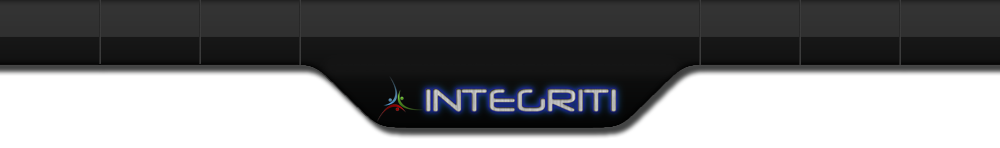
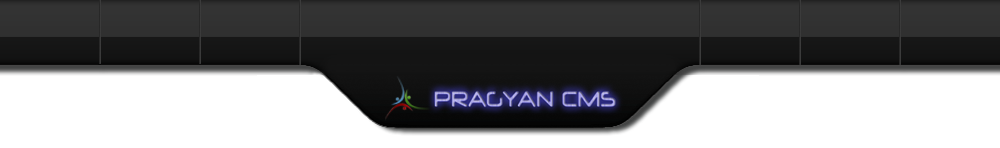
Finishing touches on trinity template, will be followed by one more commit

Changed region(s): [[0.341, 0.5405, 0.62, 0.8378], [0.372, 0.8378, 0.651, 0.9459], [0.31, 0.4865, 0.341, 0.6216]]

diff --git a/codebase/cms/templates/integriti/styles/other.css b/codebase/cms/templates/integriti/styles/other.css
@@ -1,4 +1,23 @@
-
+/** 
+ * Extras 
+ */
+div.download_button {
+	height : 69px;
+	width : 252px;
+	background : transparent url('../images/downloads_button3.png') no-repeat;
+	font-size : 21px;
+	color : #1d7ccc;
+	font-weight  : bold;
+	text-decoration : none;
+	padding-left : 0px;
+	line-height : 56px;
+	cursor : pointer; 
+}
+div.download_button:hover {
+	height : 69px;
+	width : 252px;
+	background : transparent url('../images/downloads_button_sel.png') no-repeat;
+}
 /**
  *Book Module
  */
@@ -11,7 +30,6 @@
 .tabContent {
 	display: none;
 	padding: 13px;
-	clear: both;
 }
 .tabElement {
 	border: 1px solid black;

diff --git a/codebase/cms/templates/integriti/styles/header.css b/codebase/cms/templates/integriti/styles/header.css
@@ -24,6 +24,9 @@ div#header_text {
 	font-weight: bold;
 }
 
+div.header ul {
+	float: right;
+}
 
 div.header ul > li{
 	width: 100px;
@@ -33,7 +36,7 @@ div.header ul > li{
 	list-style: none;
 }
 div.header ul > li:hover {
-	background: url(../images/glow.jpg) no-repeat top center;
+	background: url(../images/glow.jpg) repeat-x top center;
 }
 
 div.header li:hover > a > div {

diff --git a/codebase/cms/templates/integriti/index.php b/codebase/cms/templates/integriti/index.php
@@ -51,8 +51,14 @@ if(!defined('__PRAGYAN_CMS'))
 		<img style="padding-top:6px; padding-left:10px" src="<?php echo $TEMPLATEBROWSERPATH; ?>/images/pragyancmslogo.png"/>
 		<div id='header_text'>PRAGYAN CMS</div>
 		<ul>
-		<li><a href=""><div>TOPIC 1</a></div>
-		<li><a href=""><div>TOPIC 2</a></div>
+		<li><a href="http://pragyan.integriti.org.in/home/demo/"><div>DEMO</div></a>
+		<li><a href="http://pragyan.integriti.org.in/home/gsoc_ideas/"><div>GSoC</div></a>
+
+ <li><a href="http://pragyan.integriti.org.in/home/downloads/"><div>Downloads</div></a></li>
+<li><a href="http://pragyan.integriti.org.in/home/support/"><div>Support</div></li>
+<li><a href="http://pragyan.integriti.org.in/home/develop/"><div>Develop</div></li>
+<li><a href="http://pragyan.integriti.org.in/home/credits/"><div>Credits</div></a></li>
+
 		</ul>
 		</div>
 		
